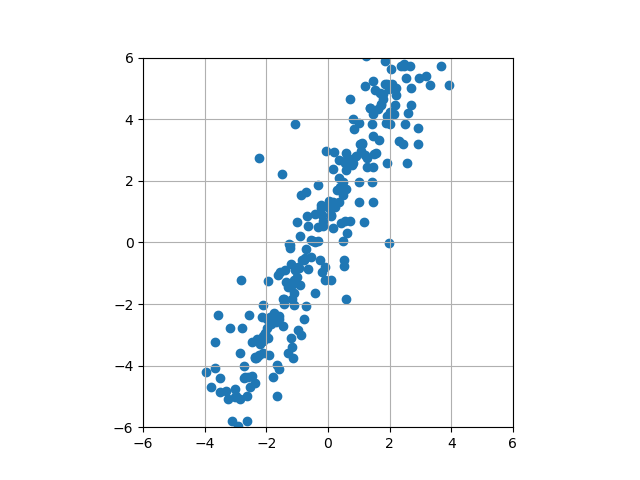
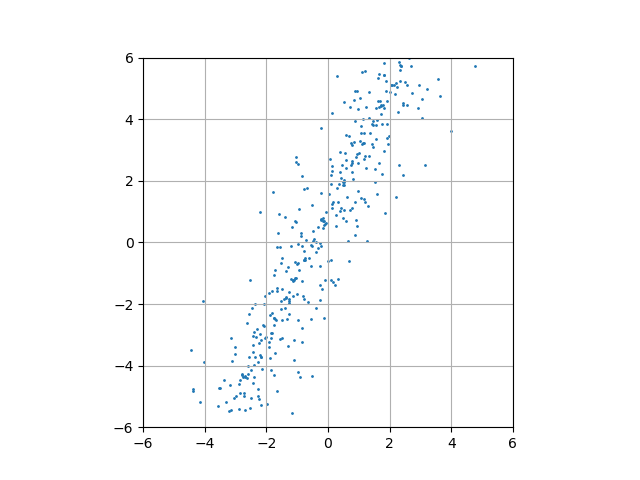
Changed the plot size of AddNoiseToStraightLine2

diff --git a/SimpleSnippets/AddNoiseToLine/AddNoiseToStraightLine2.py b/SimpleSnippets/AddNoiseToLine/AddNoiseToStraightLine2.py
@@ -7,7 +7,7 @@ import numpy as np
 import matplotlib.pyplot as plt
 import os
 import math
-import GenerateGaussianNoiseAtPoint as gaussianxy
+from  Common import Util
 #
 #Generate X values
 #
@@ -40,7 +40,7 @@ for index in range(0,len(xvalues)):
     y=y_original[index]
     print("x,y  %f,%f" % (x,y))
     stddev=1
-    arr_cluster=gaussianxy.GenerateClusterOfRandomPointsAroundXY(x,y,stddev,20)
+    arr_cluster=Util.GenerateClusterOfRandomPointsAroundXY(x,y,stddev,20)
     print(arr_cluster)
     cluster_shape=arr_cluster.shape
     list_x.append(x)
@@ -68,7 +68,7 @@ plt.gca().set_aspect('equal', adjustable='box')
 #Show a grid
 #
 ax.grid(True, which='both')
-plt.scatter(list_x,list_y) 
+plt.scatter(list_x,list_y,s=1) 
 folder_script=os.path.dirname(__file__)
 file_image=os.path.join(folder_script,"./../out","Results.png")
 plt.savefig(file_image)

diff --git a/SimpleSnippets/AddNoiseToCircle/AddNoiseToCircle.py b/SimpleSnippets/AddNoiseToCircle/AddNoiseToCircle.py
@@ -47,8 +47,5 @@ plt.gca().set_aspect('equal', adjustable='box')
 #
 ax.grid(True, which='both')
 plt.scatter(list_x,list_y,s=1) 
-#folder_script=os.path.dirname(__file__)
-#file_image=os.path.join(folder_script,"./../out","Results.png")
-#plt.savefig(file_image)
 plt.show()
 pass

diff --git a/SimpleSnippets/AddNoiseToLine/AddNoiseToStraightLine1.py b/SimpleSnippets/AddNoiseToLine/AddNoiseToStraightLine1.py
@@ -6,6 +6,7 @@ We will use np.random.normal to generate Gaussian noise
 import numpy as np
 import matplotlib.pyplot as plt
 import os
+
 #
 #Generate X values
 #

diff --git a/Readme.md b/Readme.md
@@ -21,7 +21,10 @@ This example demonstrates how to generate a noisy straight line by adding Gaussi
             
 ## Approach 2
 This example we generate a point which lies on the line and then generated normally distributed random points around this point.
-### How is this approach different from Approach 1? At every true point, we are radially generating a cluster of normally distributed random points
+
+_How is this approach different from Approach 1?_
+
+At every true point, we are radially generating a cluster of normally distributed random points
 <img src="./SimpleSnippets/images/AddNoiseToStraightLine2.png"  width="50%" height="50%"/>
 
 # AddNoiseToCircle
